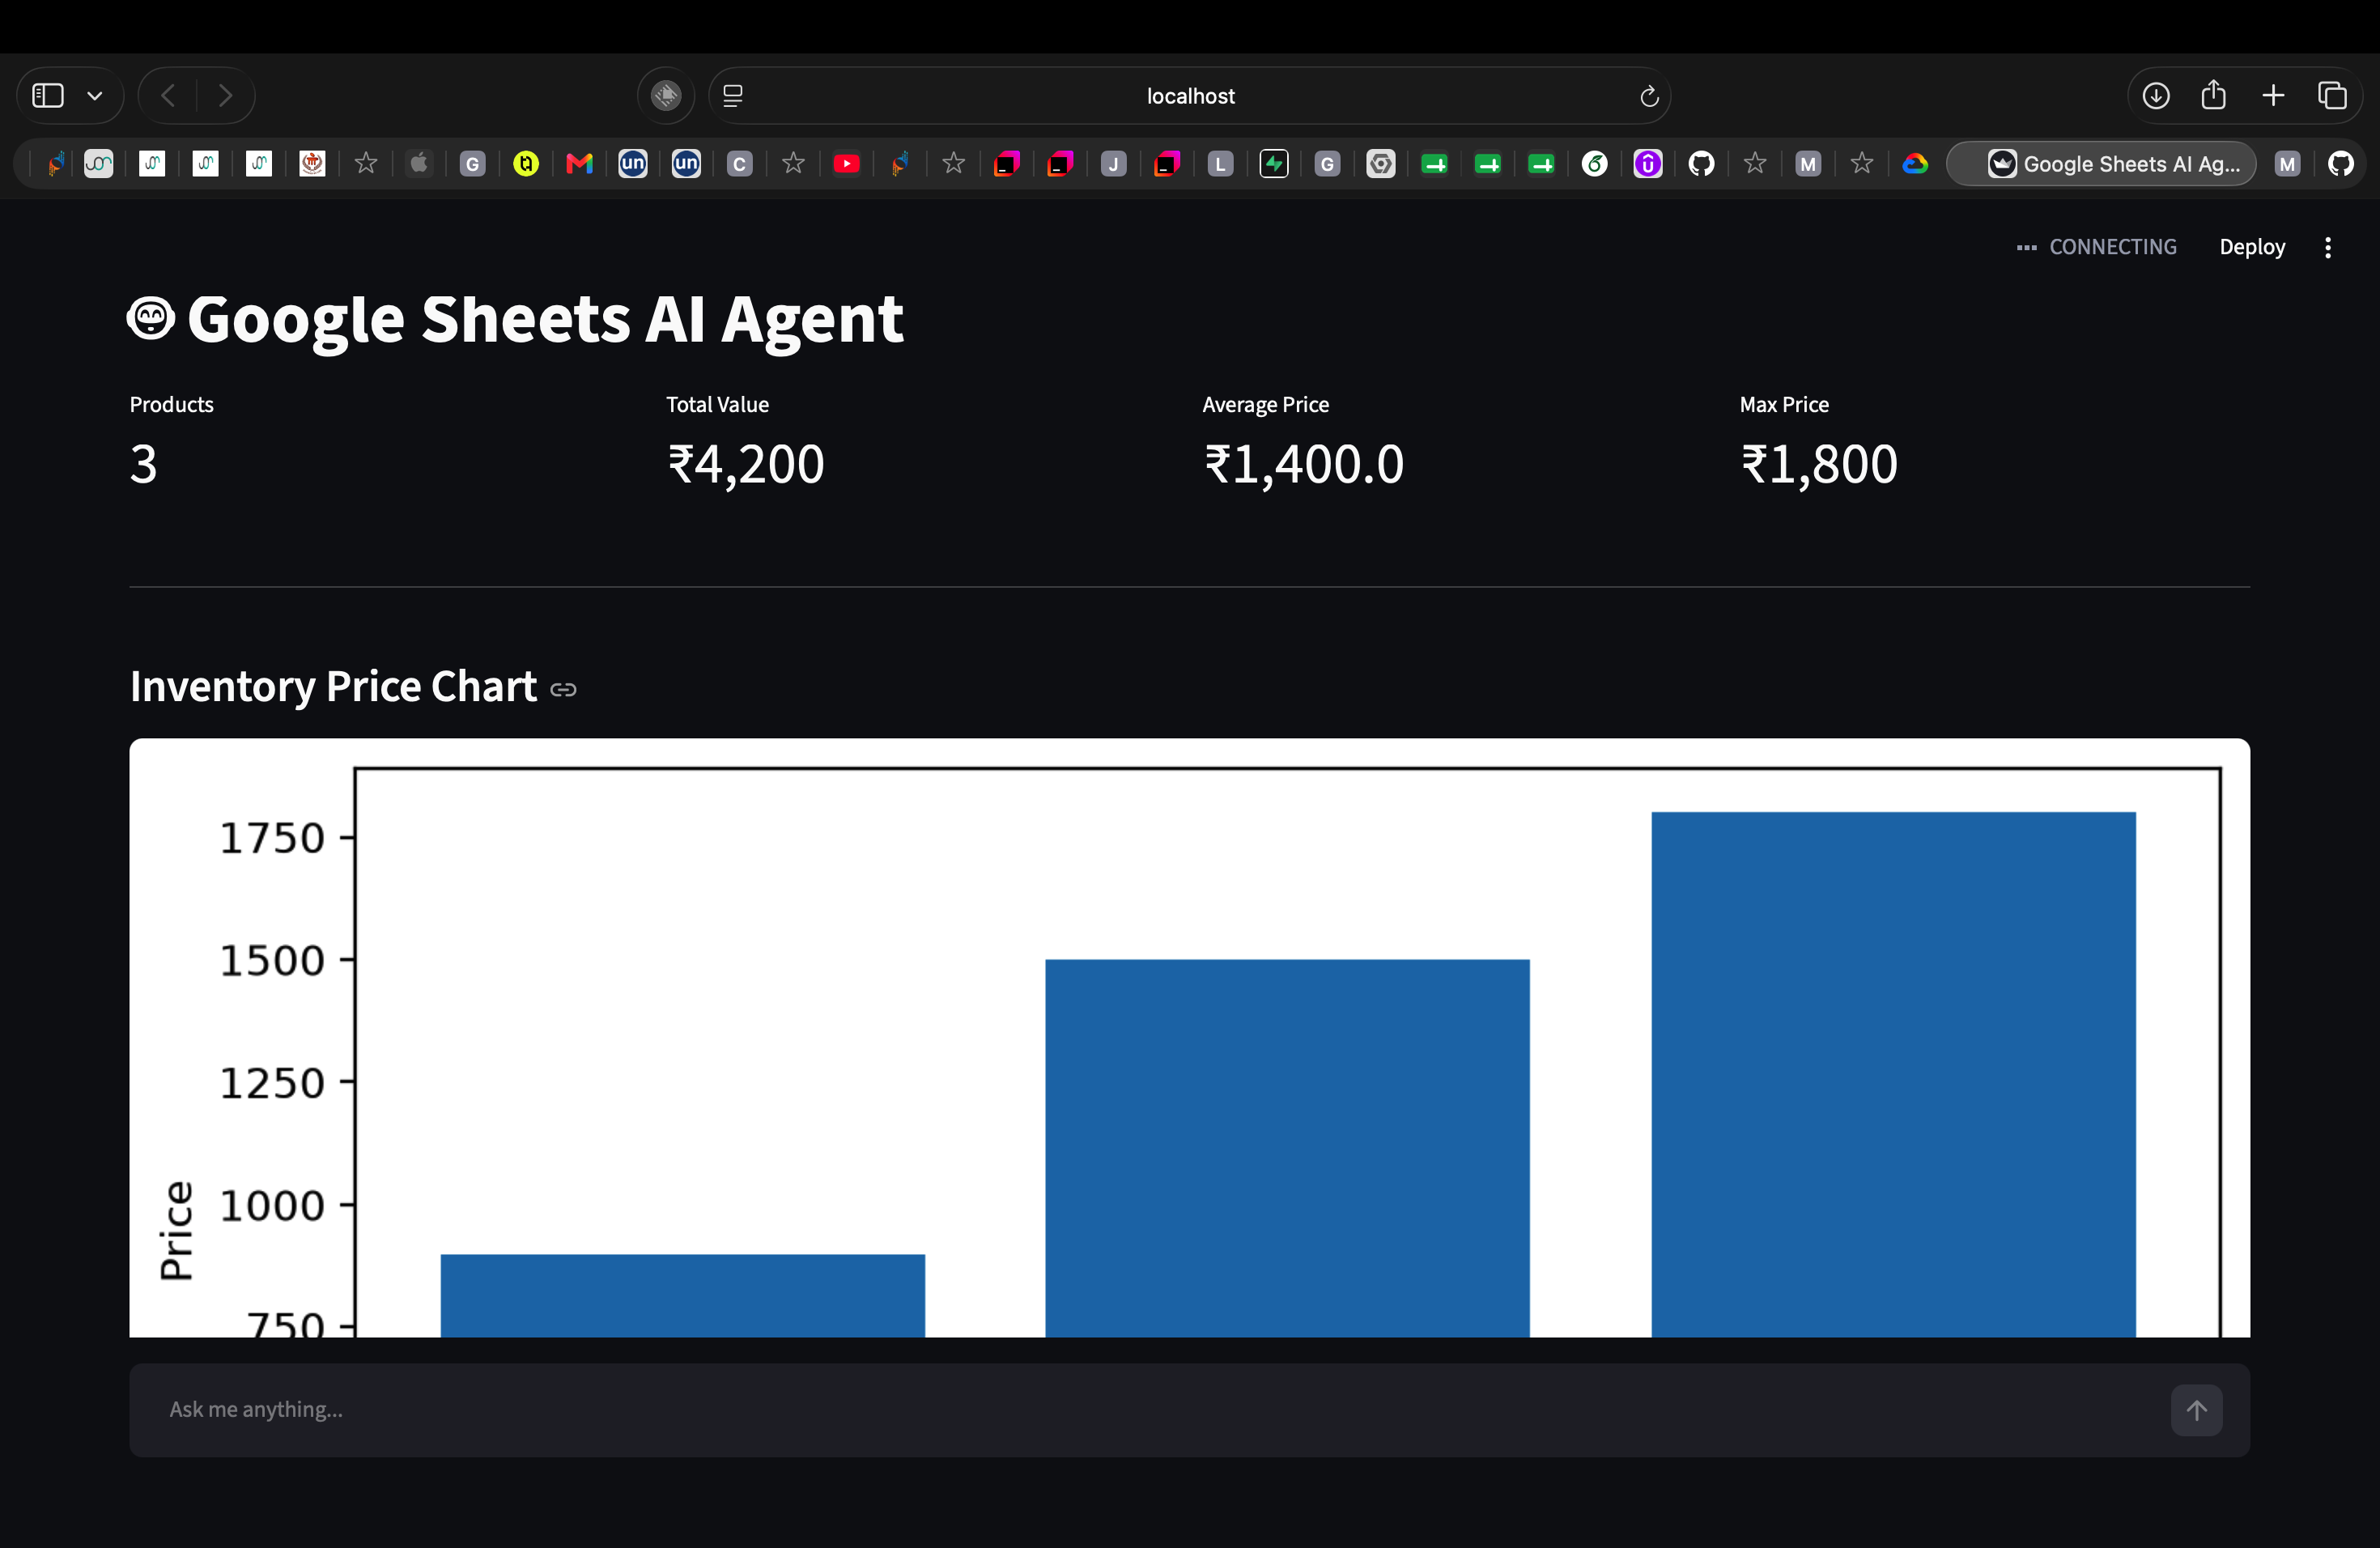
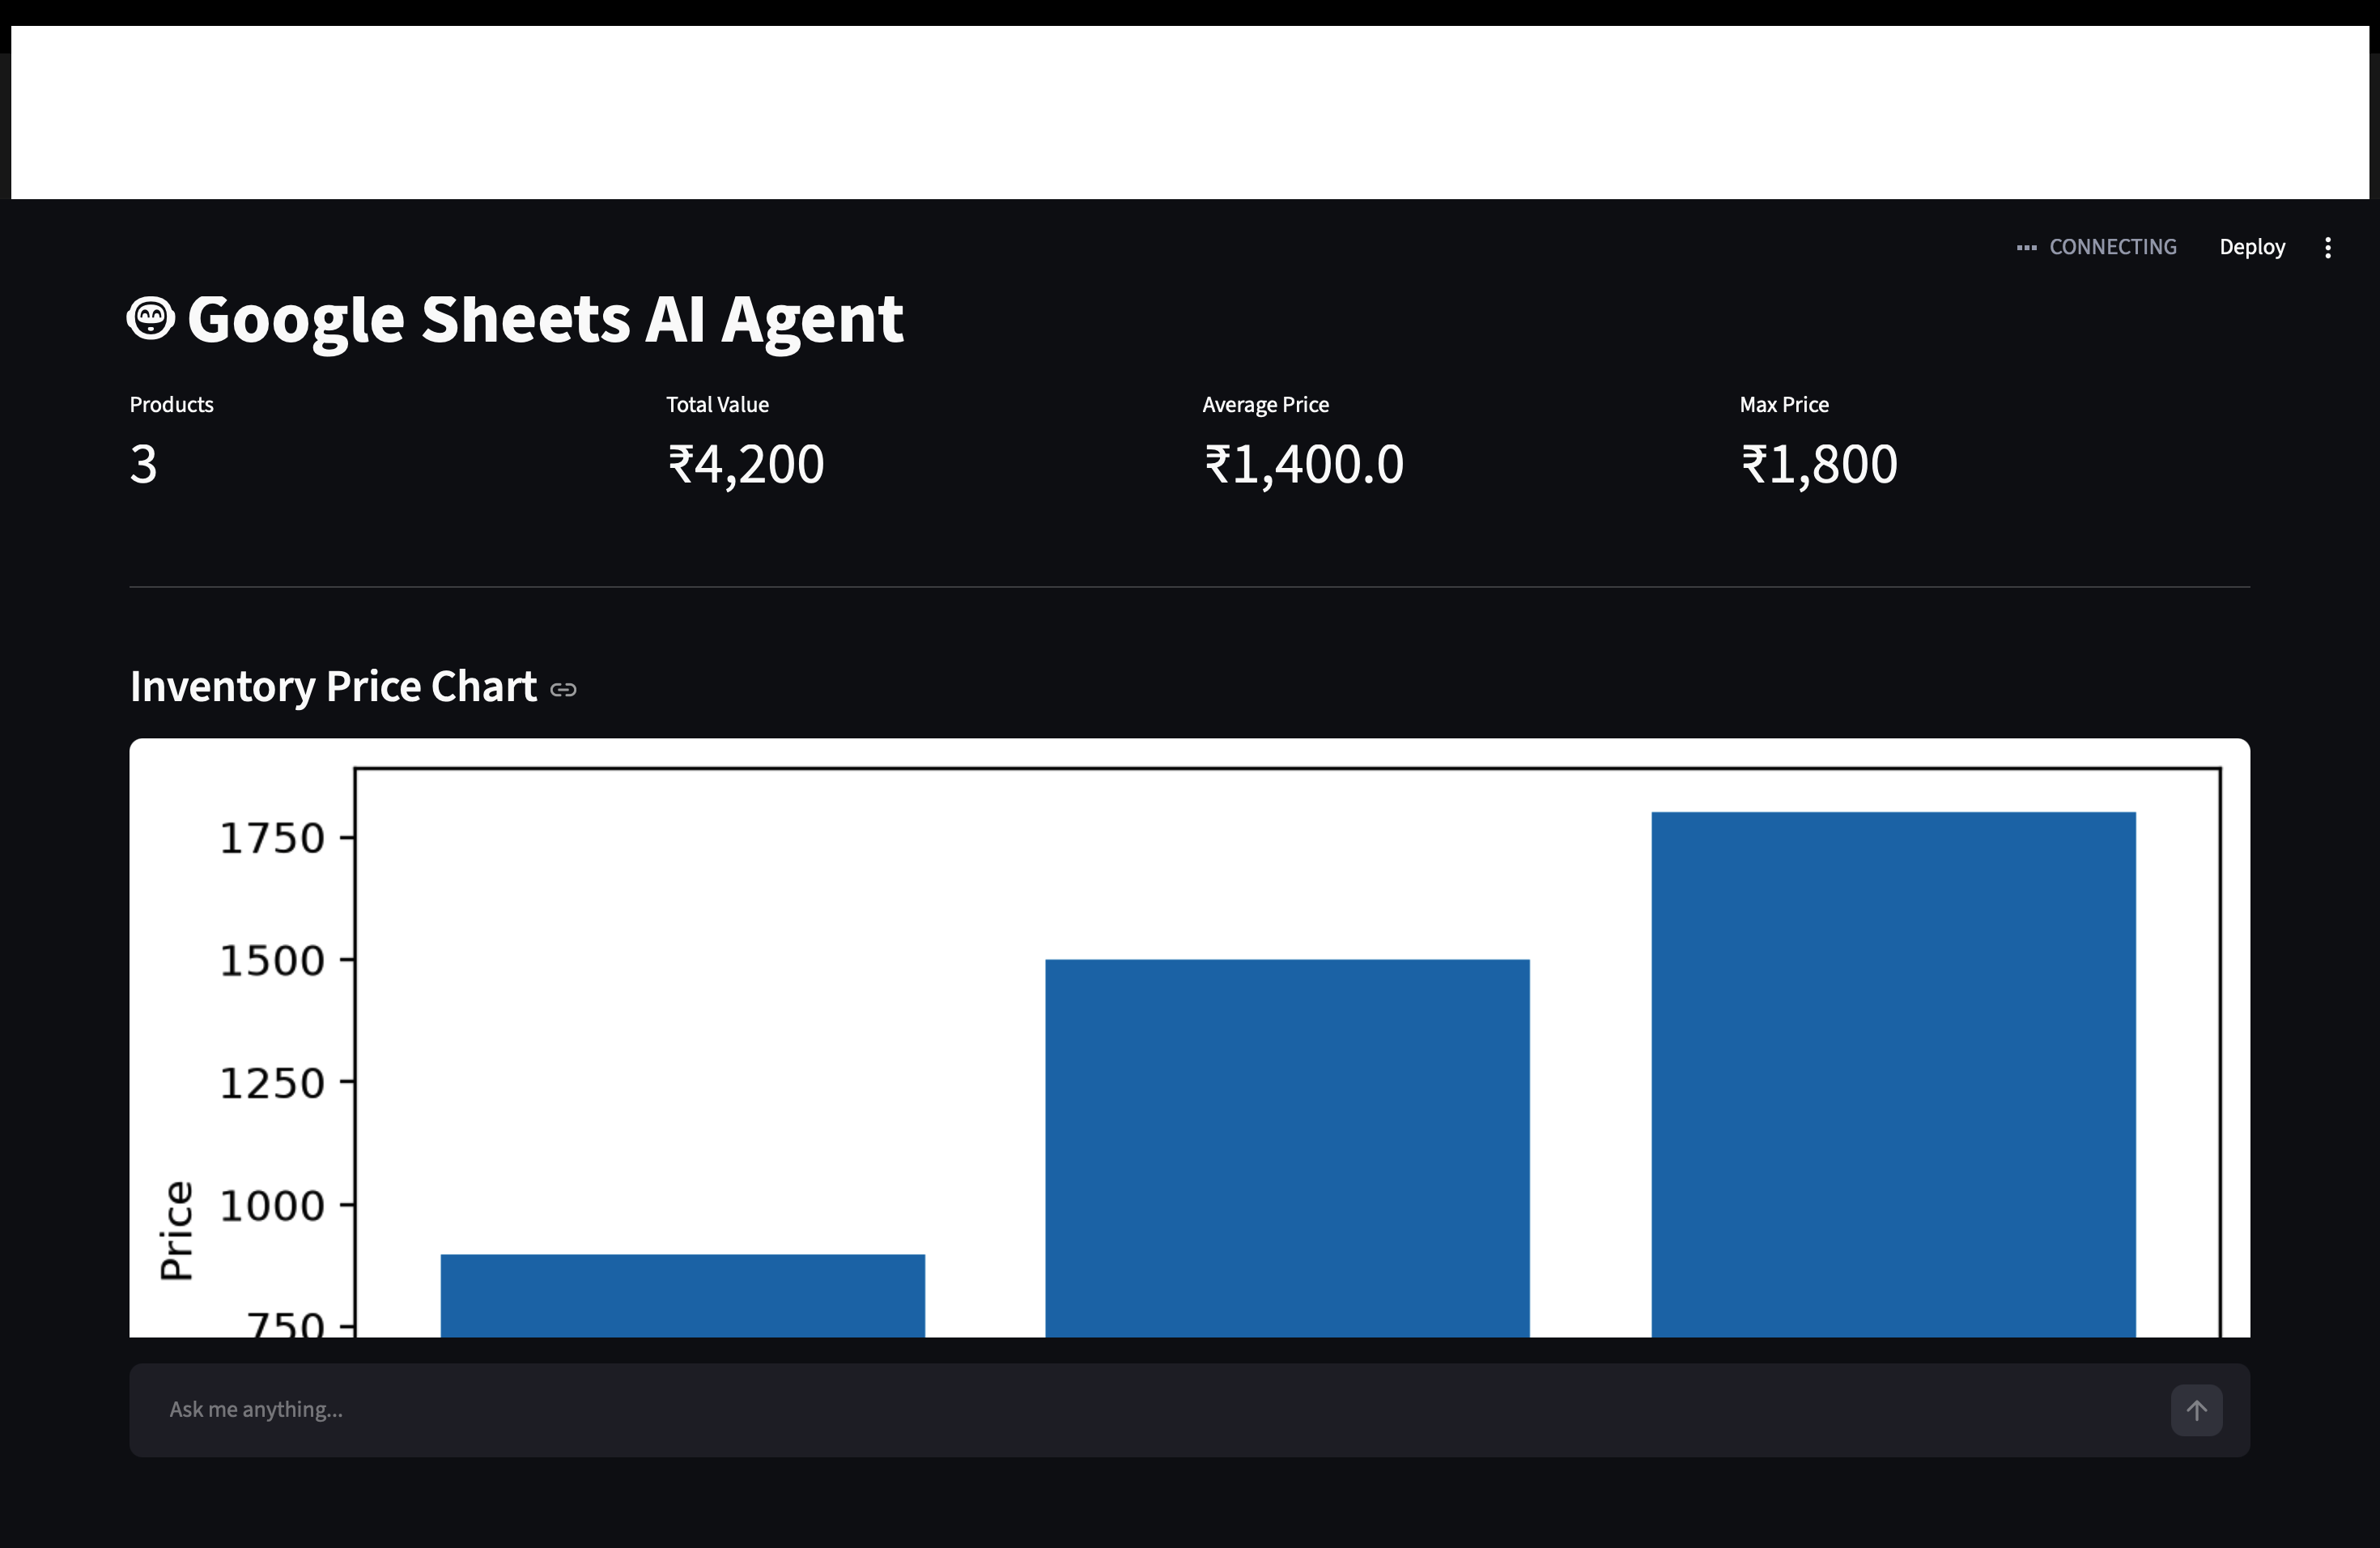
Initial commit

Changed region(s): [[0.0, 0.0, 1.0, 0.1543]]

diff --git a/README.md b/README.md
@@ -1,0 +1,273 @@
+# 🤖 Google Sheets AI Agent
+
+An AI-powered inventory management system that enables users to manage Google Sheets using natural language. Built with **Python**, **LangGraph**, **Google Gemini**, **Google Sheets API**, and **Streamlit**, the application supports intelligent tool calling for CRUD operations along with a real-time analytics dashboard.
+
+---
+
+## ✨ Features
+
+- 🤖 Natural language inventory management
+- 📄 Google Sheets integration
+- ➕ Add products using plain English
+- 🔍 Search products instantly
+- ✏️ Update existing records
+- ❌ Delete products from inventory
+- 📊 Real-time dashboard analytics
+- 📈 Interactive inventory price chart
+- 📋 Live inventory table
+- 💬 AI-powered chat interface
+- ⚡ LangGraph ReAct Agent for intelligent tool calling
+- 🧩 Modular and scalable project architecture
+
+---
+
+## 🛠️ Tech Stack
+
+| Category | Technologies |
+|----------|--------------|
+| Programming | Python |
+| AI Framework | LangGraph, LangChain |
+| LLM | Google Gemini 2.5 Flash |
+| Database | Google Sheets |
+| API | Google Sheets API |
+| Frontend | Streamlit |
+| Data Processing | Pandas |
+| Visualization | Matplotlib |
+| Environment | python-dotenv |
+
+---
+
+# 📸 Application Preview
+
+## Dashboard
+
+> Displays inventory statistics, analytics, and price visualization.
+
+![Dashboard](screenshots/dashboard.png)
+
+---
+
+## AI Assistant
+
+> Manage your inventory using natural language.
+
+![AI Assistant](screenshots/chat.png)
+
+---
+
+# 🚀 Features Demonstration
+
+### Add Product
+
+```text
+Add Mouse with Product ID 101 and Price 900
+```
+
+---
+
+### Search Product
+
+```text
+Search Mouse
+```
+
+---
+
+### Update Product
+
+```text
+Update Mouse price to 1200
+```
+
+---
+
+### Delete Product
+
+```text
+Delete Mouse
+```
+
+---
+
+# 🏗️ Project Architecture
+
+```text
+                    User
+                      │
+                      ▼
+            Streamlit Web Interface
+                      │
+                      ▼
+              LangGraph ReAct Agent
+                      │
+         ┌────────────┼────────────┐
+         │            │            │
+         ▼            ▼            ▼
+   Append Tool   Search Tool   Update Tool
+         │            │            │
+         └────────────┼────────────┘
+                      ▼
+               Google Sheets API
+                      │
+                      ▼
+               Google Spreadsheet
+```
+
+---
+
+# 📁 Project Structure
+
+```text
+GoogleSheetsAIAgent/
+
+├── agent/
+│   ├── graph.py
+│   ├── generic_tools.py
+│   ├── schemas.py
+│   └── __init__.py
+│
+├── dashboard/
+│   ├── stats.py
+│   └── __init__.py
+│
+├── sheets/
+│   ├── generic_append.py
+│   ├── generic_search.py
+│   ├── generic_update.py
+│   ├── generic_delete.py
+│   ├── read.py
+│   ├── schema.py
+│   ├── service.py
+│   ├── utils.py
+│   └── __init__.py
+│
+├── ui/
+│   ├── app.py
+│   └── __init__.py
+│
+├── config.py
+├── prompts.py
+├── app.py
+├── requirements.txt
+└── README.md
+```
+
+---
+
+# ⚙️ Installation
+
+Clone the repository
+
+```bash
+git clone https://github.com/naveenkkr75/google-sheets-ai-agent.git
+
+cd google-sheets-ai-agent
+```
+
+Create a virtual environment
+
+```bash
+python -m venv .venv
+```
+
+Activate the virtual environment
+
+### macOS/Linux
+
+```bash
+source .venv/bin/activate
+```
+
+### Windows
+
+```bash
+.venv\Scripts\activate
+```
+
+Install dependencies
+
+```bash
+pip install -r requirements.txt
+```
+
+---
+
+# 🔐 Environment Variables
+
+Create a `.env` file in the project root.
+
+```env
+GOOGLE_SERVICE_ACCOUNT=service_account.json
+SPREADSHEET_ID=YOUR_SPREADSHEET_ID
+GEMINI_API_KEY=YOUR_GEMINI_API_KEY
+```
+
+---
+
+# ▶️ Run the Application
+
+### Command Line Interface
+
+```bash
+python app.py
+```
+
+---
+
+### Streamlit Dashboard
+
+```bash
+python -m streamlit run ui/app.py
+```
+
+---
+
+# 📊 Dashboard Metrics
+
+The application provides live inventory insights including:
+
+- Total Products
+- Total Inventory Value
+- Average Product Price
+- Maximum Product Price
+- Inventory Price Distribution Chart
+- Live Inventory Table
+
+---
+
+# 🧠 AI Capabilities
+
+The AI assistant can:
+
+- Understand natural language commands
+- Select the appropriate tool automatically
+- Perform CRUD operations on Google Sheets
+- Handle multiple inventory-related queries
+- Provide conversational responses
+
+---
+
+# 🔮 Future Enhancements
+
+- User Authentication
+- Export Inventory to CSV/PDF
+- Product Images
+- Multi-user Support
+- Advanced Analytics Dashboard
+- Email Notifications
+- Docker Deployment
+- Cloud Deployment
+
+---
+
+# 👨💻 Author
+
+**Naveen Kumar**
+
+Final Year Engineering Student
+
+GitHub: https://github.com/naveenkkr75
+
+---
+
+## ⭐ If you found this project useful, consider giving it a star!